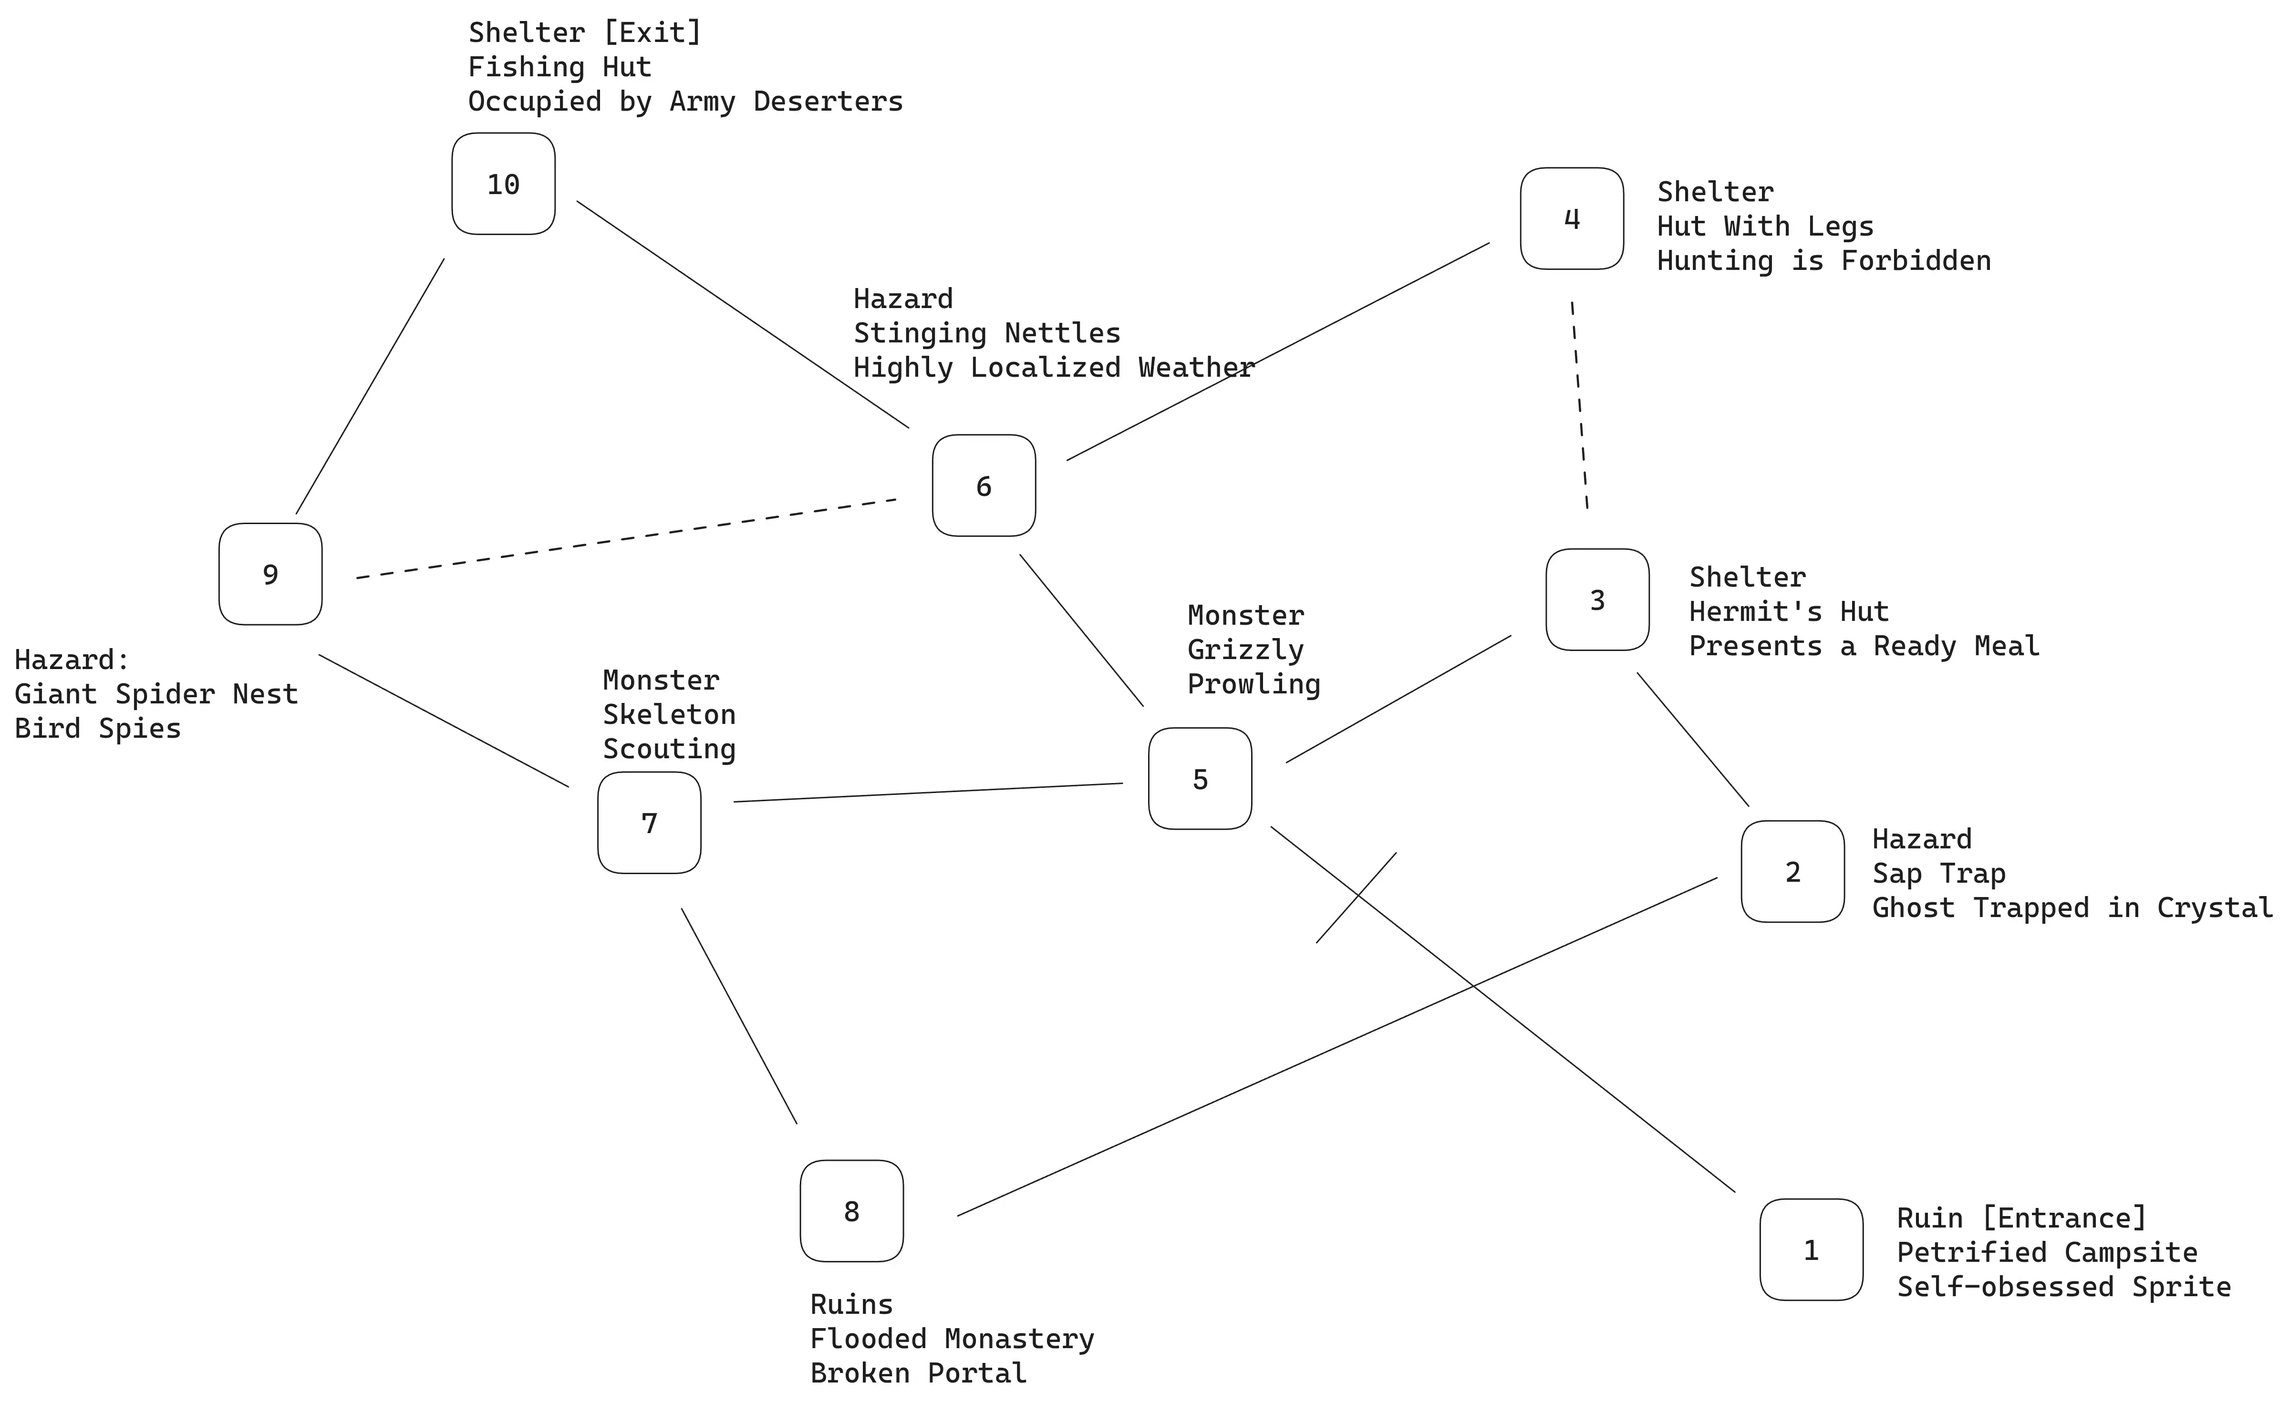
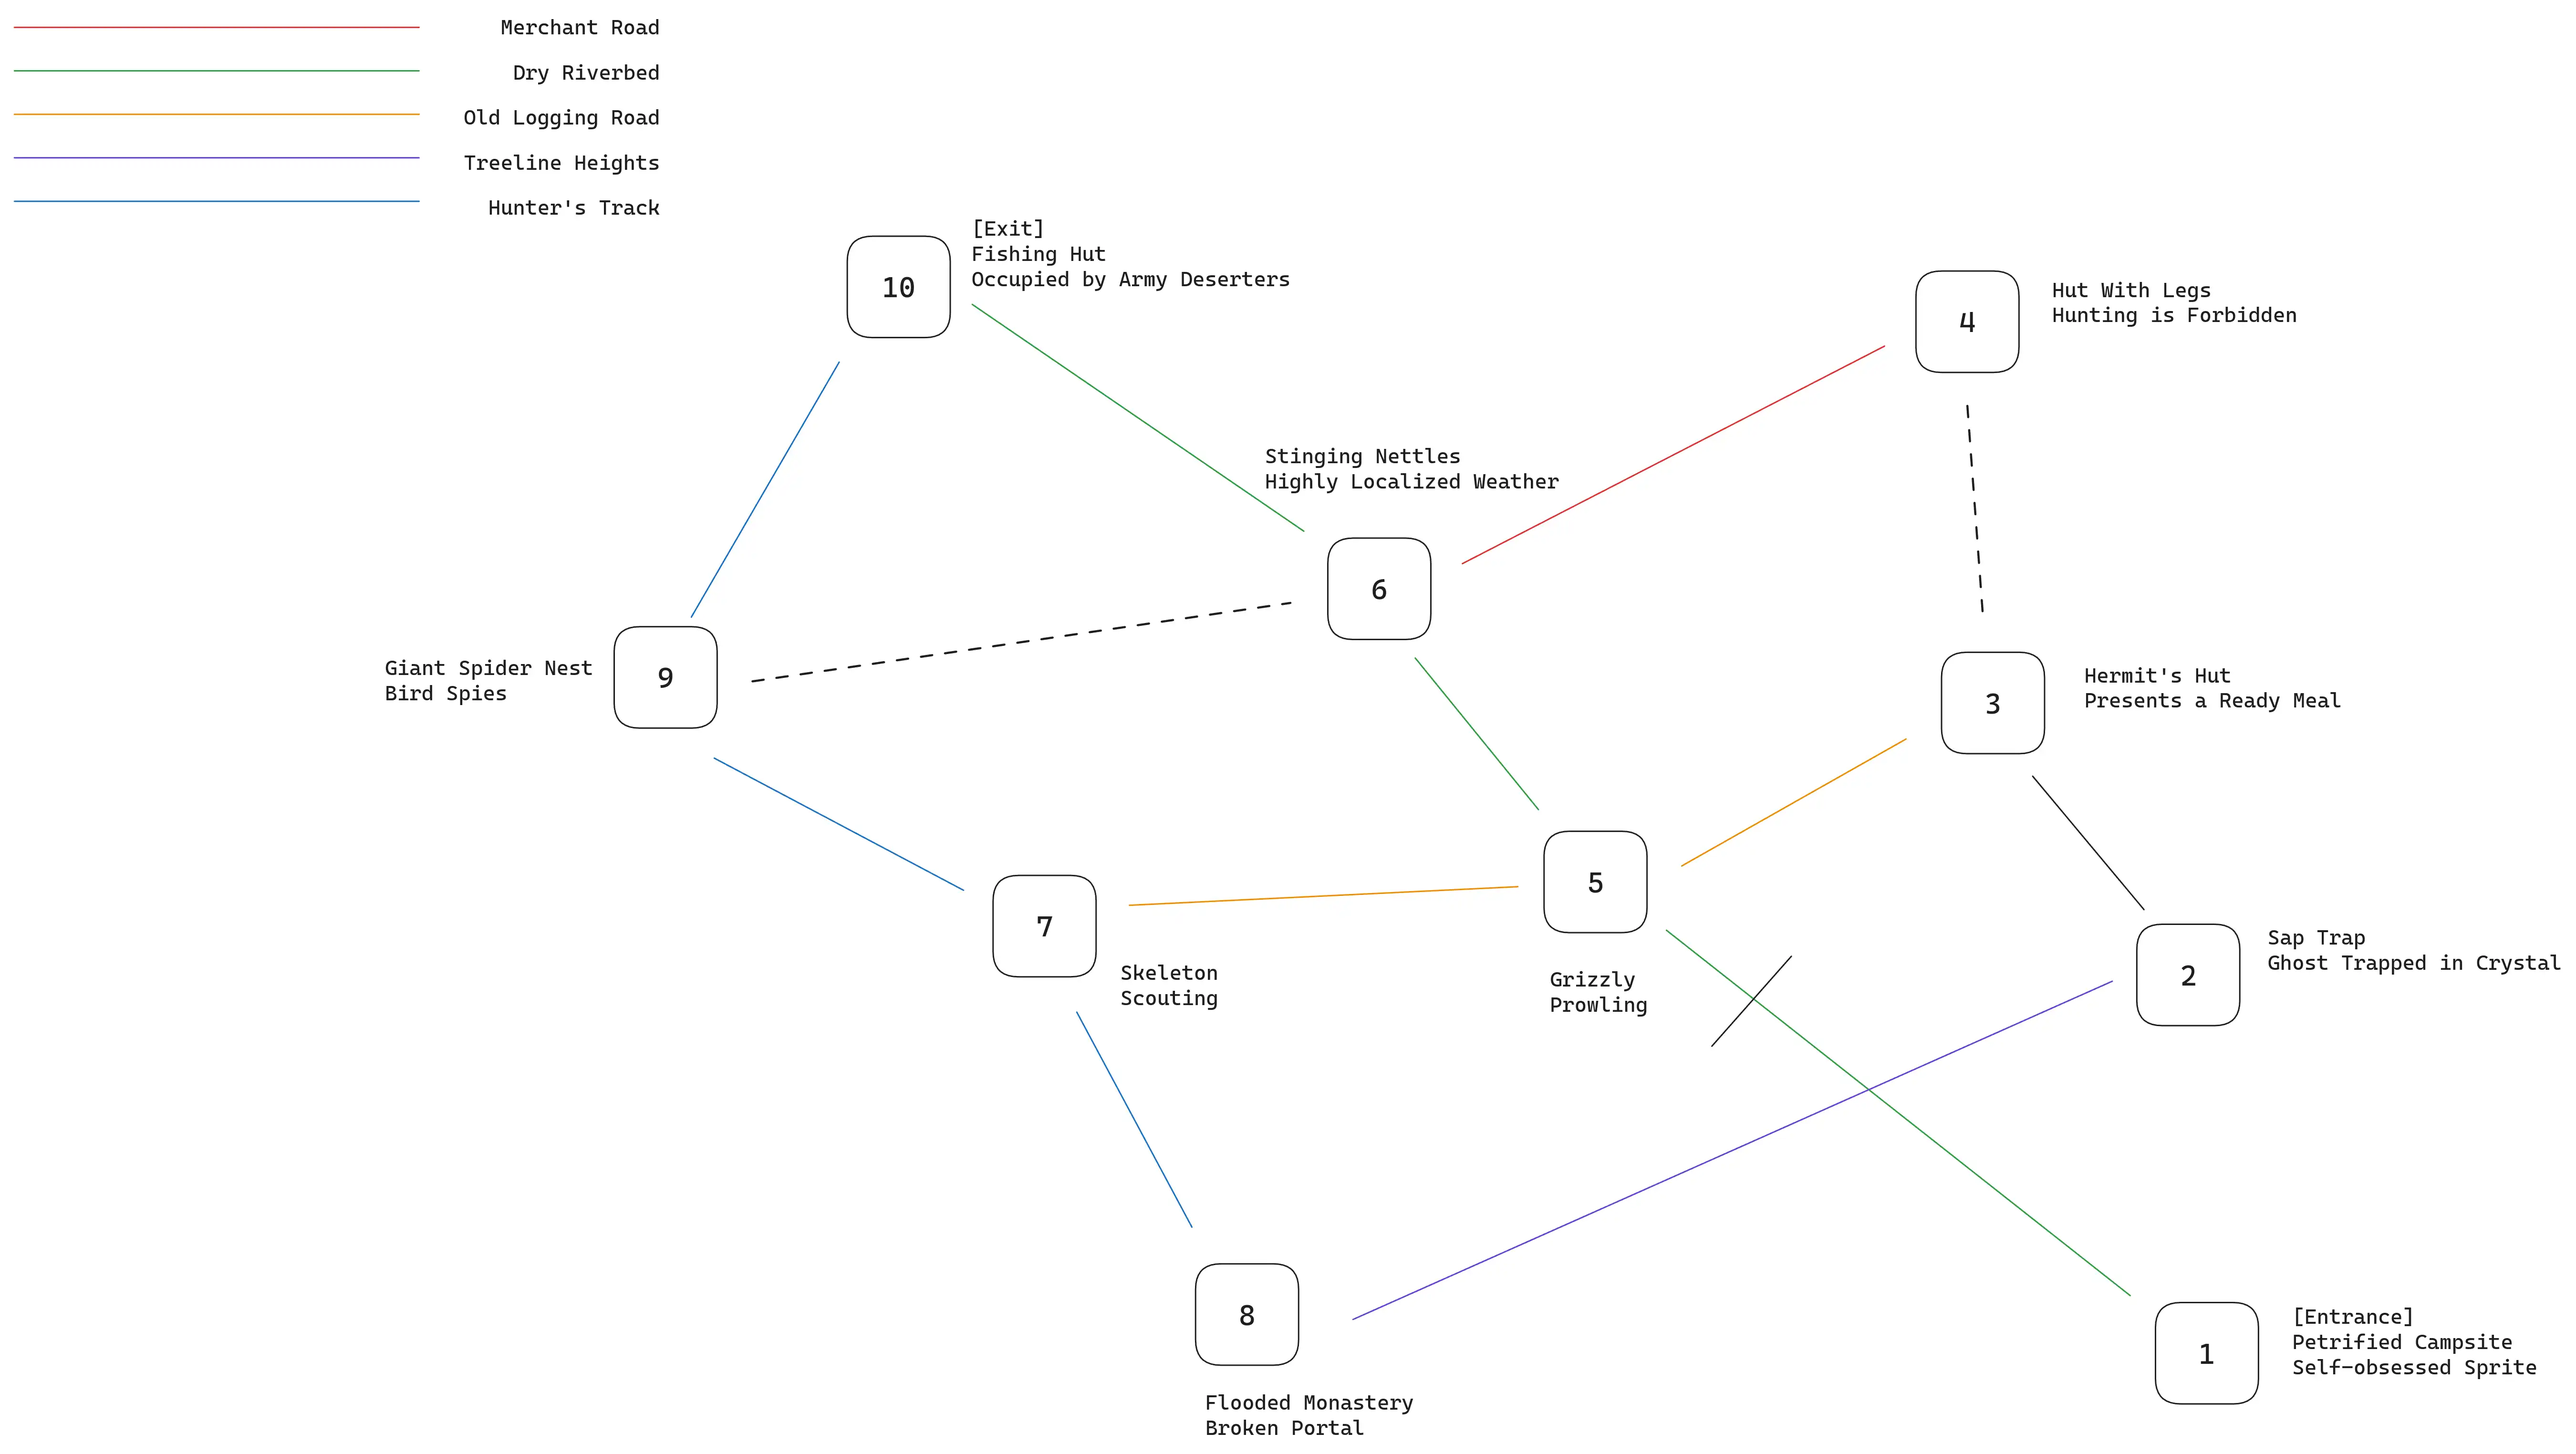
updated images

diff --git a/wip/2e/forest-seeds.md b/wip/2e/forest-seeds.md
@@ -172,10 +172,10 @@ Roll 2d20 and combine the results.
   - Create loops, branching paths, dead-ends, and shortcuts between points.
   - Some paths are Conditional, represented by a crossed line.
   - Some paths are Hidden, represented by a dashed line.
-  - Create intersections (crossed lines) with no POIs in between.
-- Create trails by drawing over paths that connect multiple points in a direct or interesting manner.
-  - Hidden paths are not normally part of a trail.
-  - Use colored pencils or crayons to indicate different trails.
+  - Create intersections (crossed lines) with no points in between.
+- Create trails by drawing over paths that connect 3-4 points in an obvious, consistent, or interesting manner. 
+  - Short, isolated paths between points and hidden paths are not usually a part of a trail.
+  - Use colored pencils or crayons to help distinguish different trails.
 - Roll on the [Trail Types](#trail-types) table for each trail, recording the results in your notebook. 
 
 #### Trail Types
@@ -360,6 +360,7 @@ The primary faction is bent on expanding the forest's reach to some adjacent lan
 - Dry Riverbed, Tree Carvings
 - Old Logging Road, Fresh Spiderwebs
 - Treeline Heights, Stone Piles
+- Hunter's Track, Peripheral Images
 
 ### POIs
 
